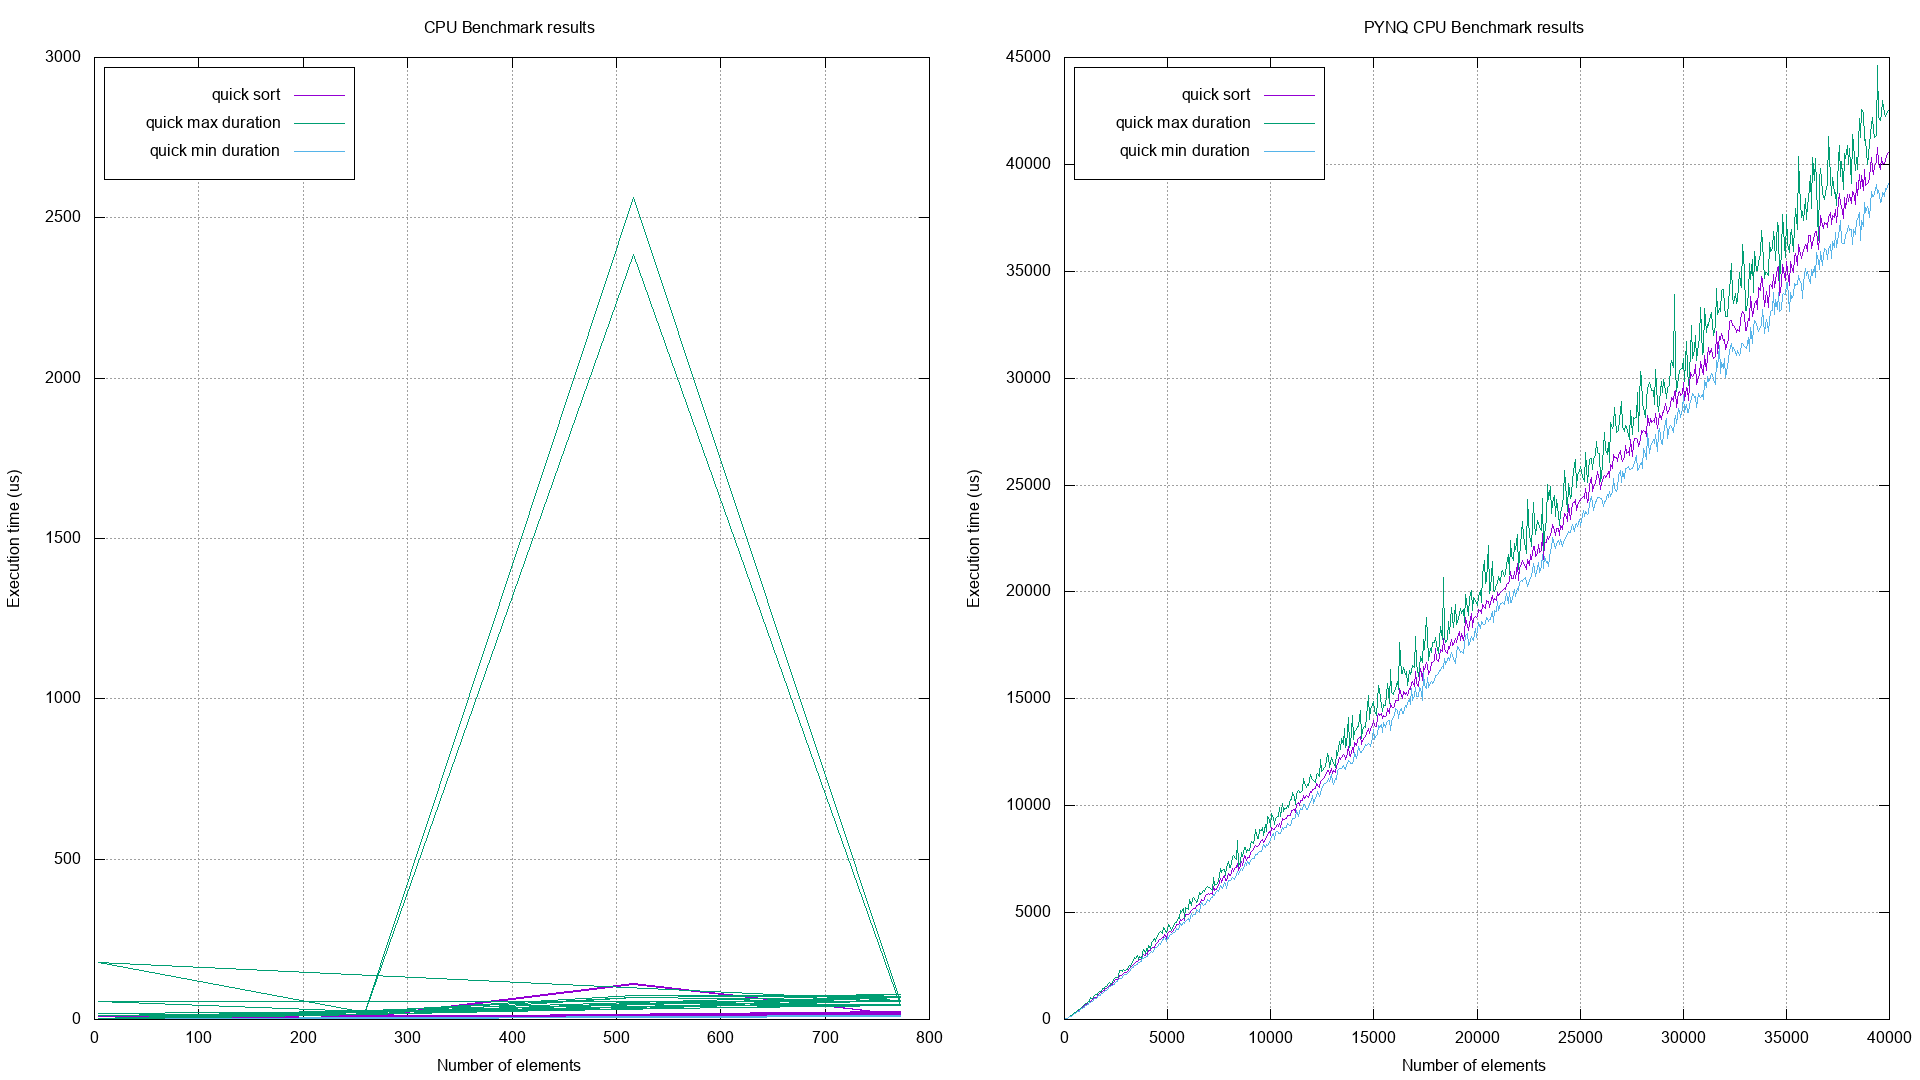
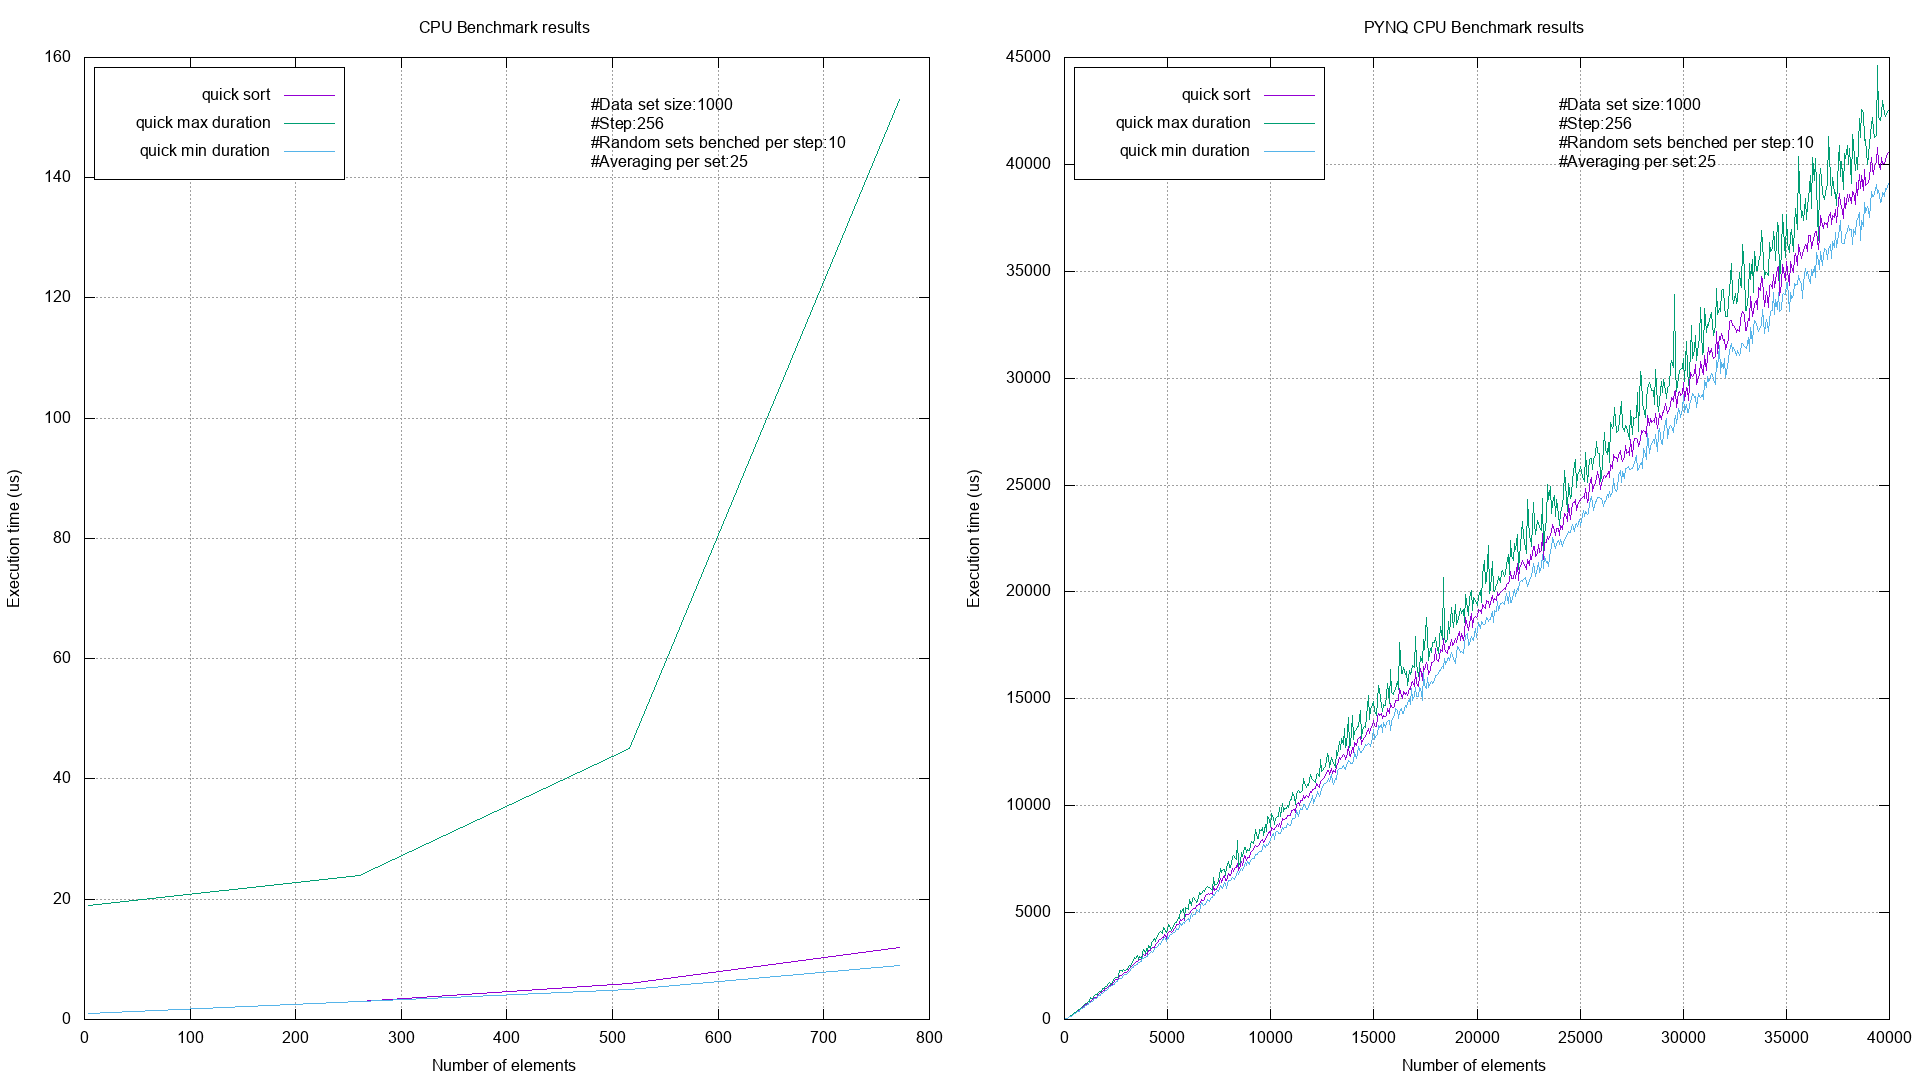
Modified bench

diff --git a/c/benchmark/benchmark.cpp b/c/benchmark/benchmark.cpp
@@ -21,10 +21,7 @@ void runBenchmark(Comparator *s, unsigned int* data, int n, string sort)
     cerr << "\tRandom sets benched per step : " << NB_SETS << endl;
     cerr << "\tAveraging per set : " << AVERAGING << endl;
 
-    outfile << '#' << "Data set size:" << n << endl;
-    outfile << '#' << "Step:" << DATA_STEP << endl;
-    outfile << '#' << "Random sets benched per step:" << NB_SETS << endl;
-    outfile << '#' << "Averaging per set" << AVERAGING << endl;    
+    outfile << '#' << "Data set size:" << n << "\\\\n" << '#' << "Step:" << DATA_STEP << "\\\\n" << '#' << "Random sets benched per step:" << NB_SETS << "\\\\n" << '#' << "Averaging per set:" << AVERAGING << endl;    
 
     // Multiple runs for a number of data from 4 to DATA_STEP
     // for (int h = 0; h < NB_SETS; h++)
